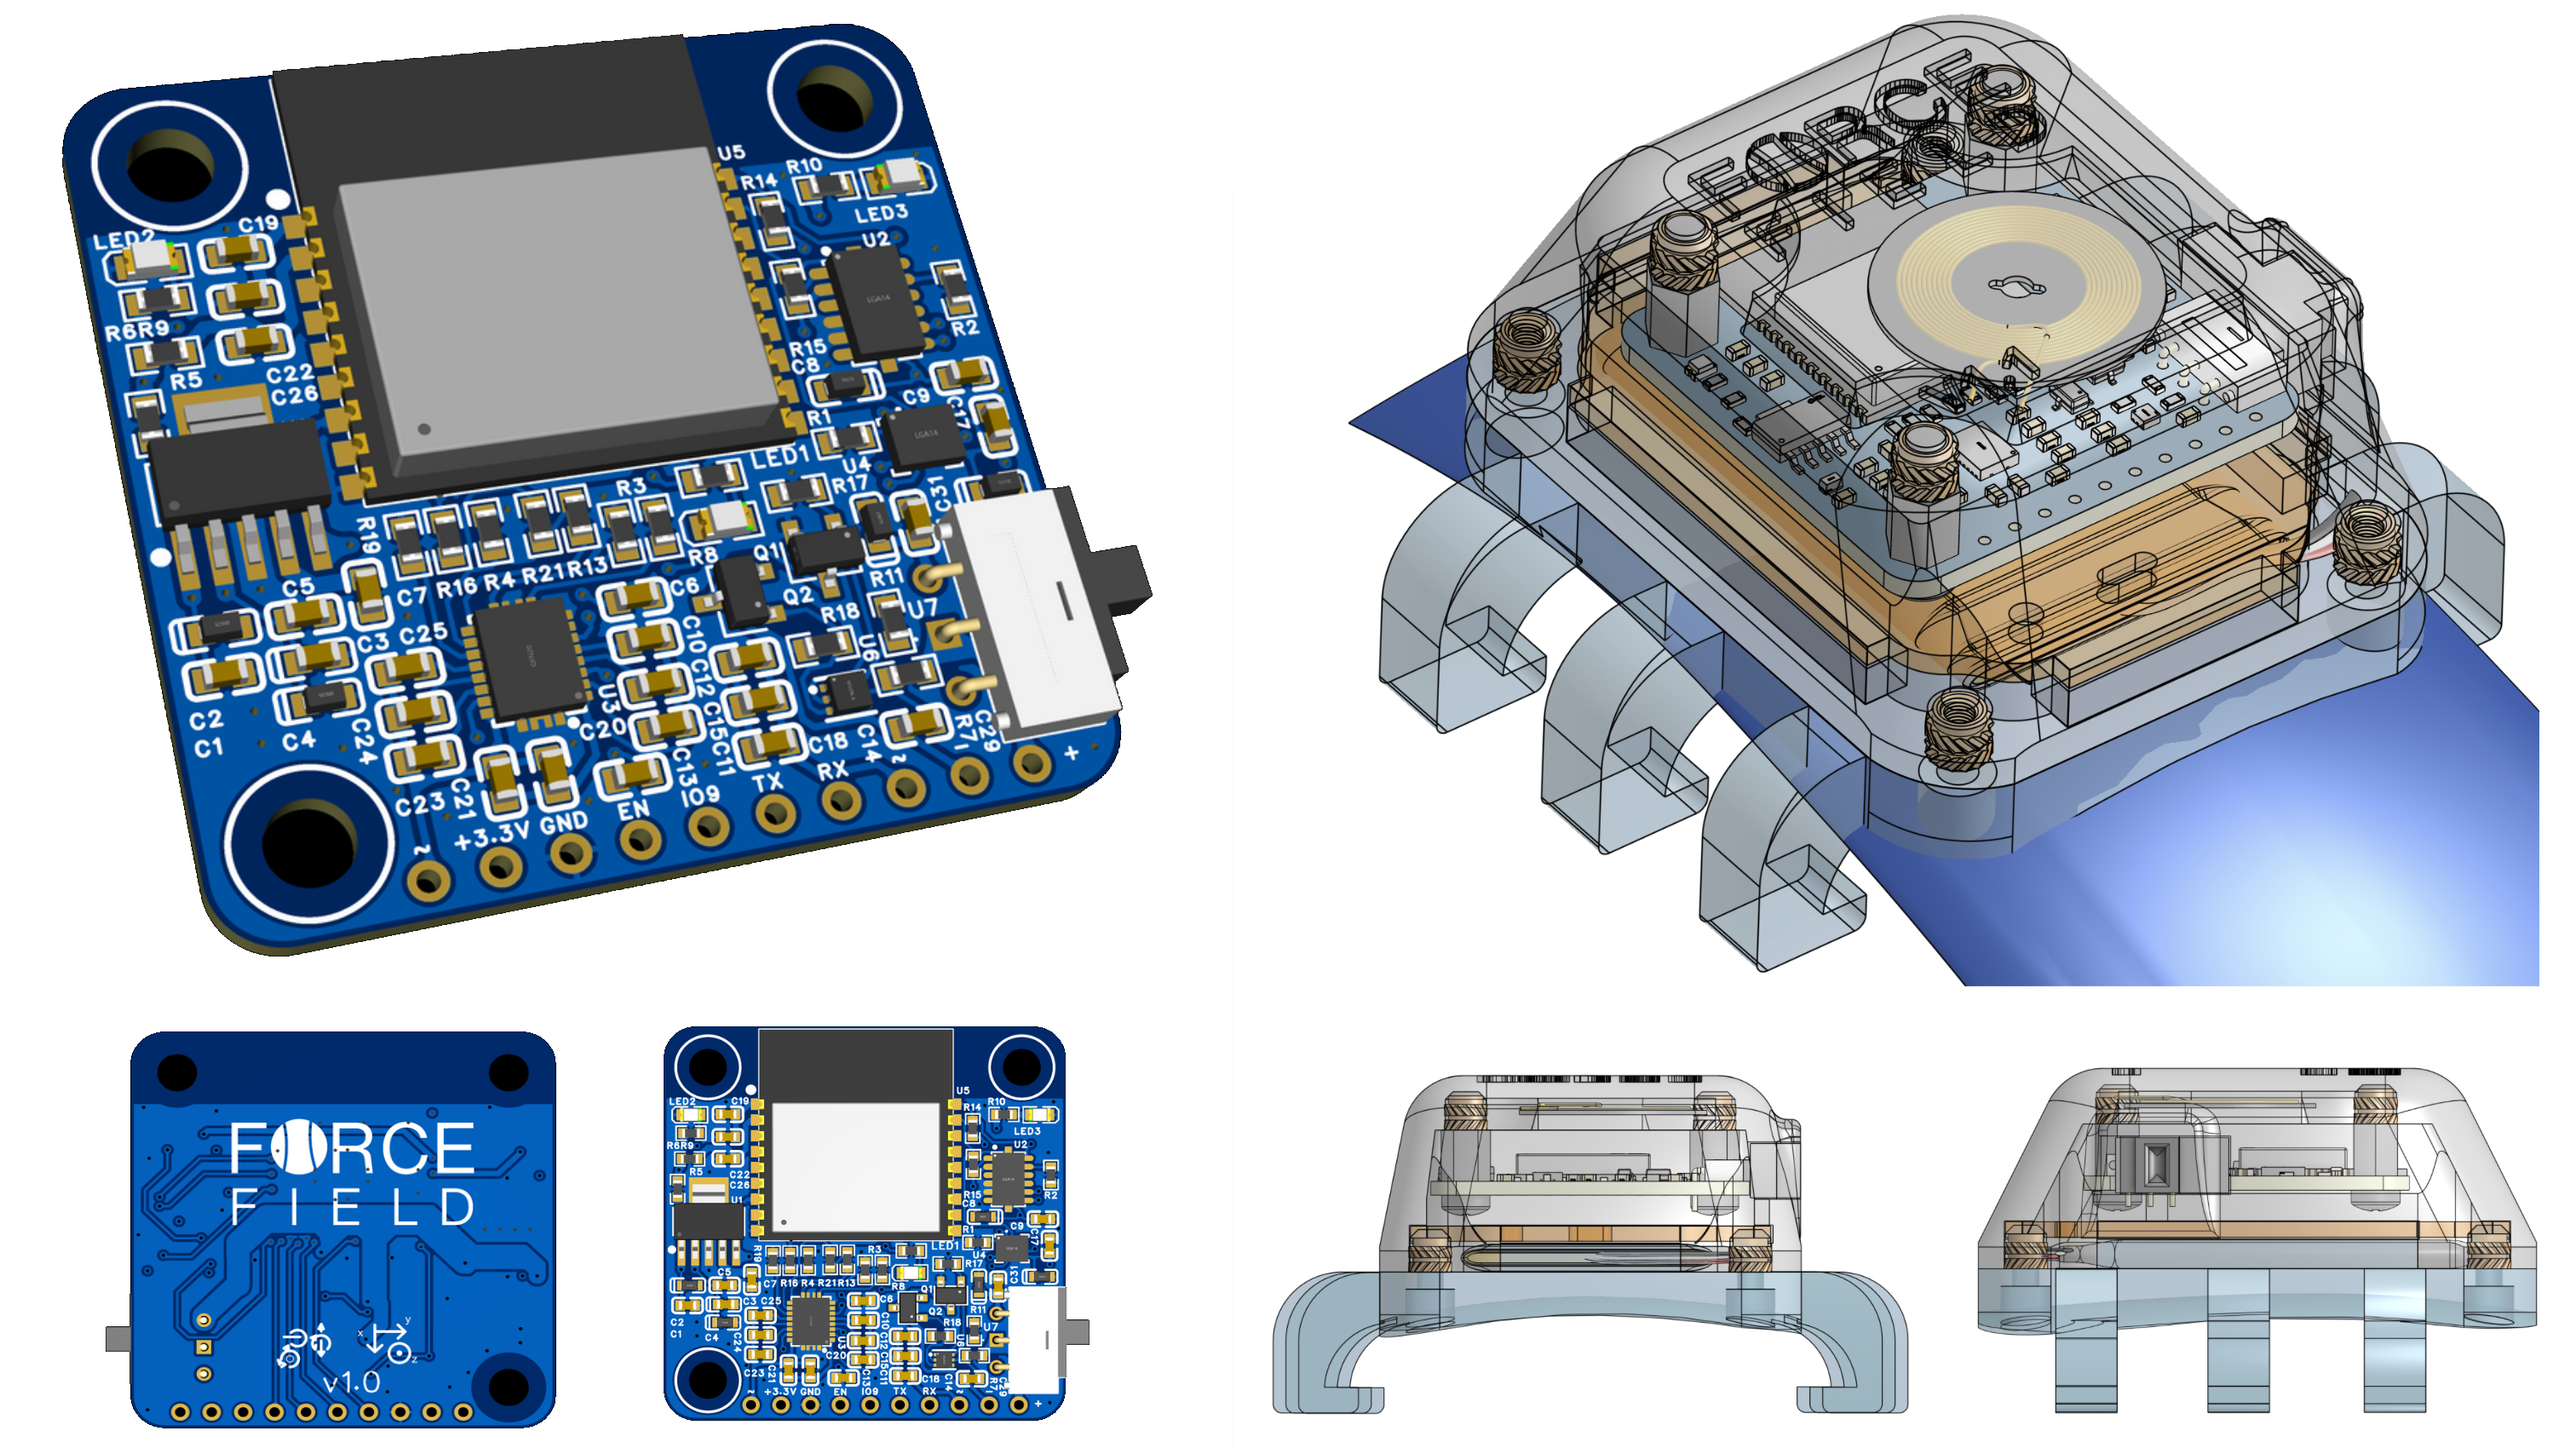
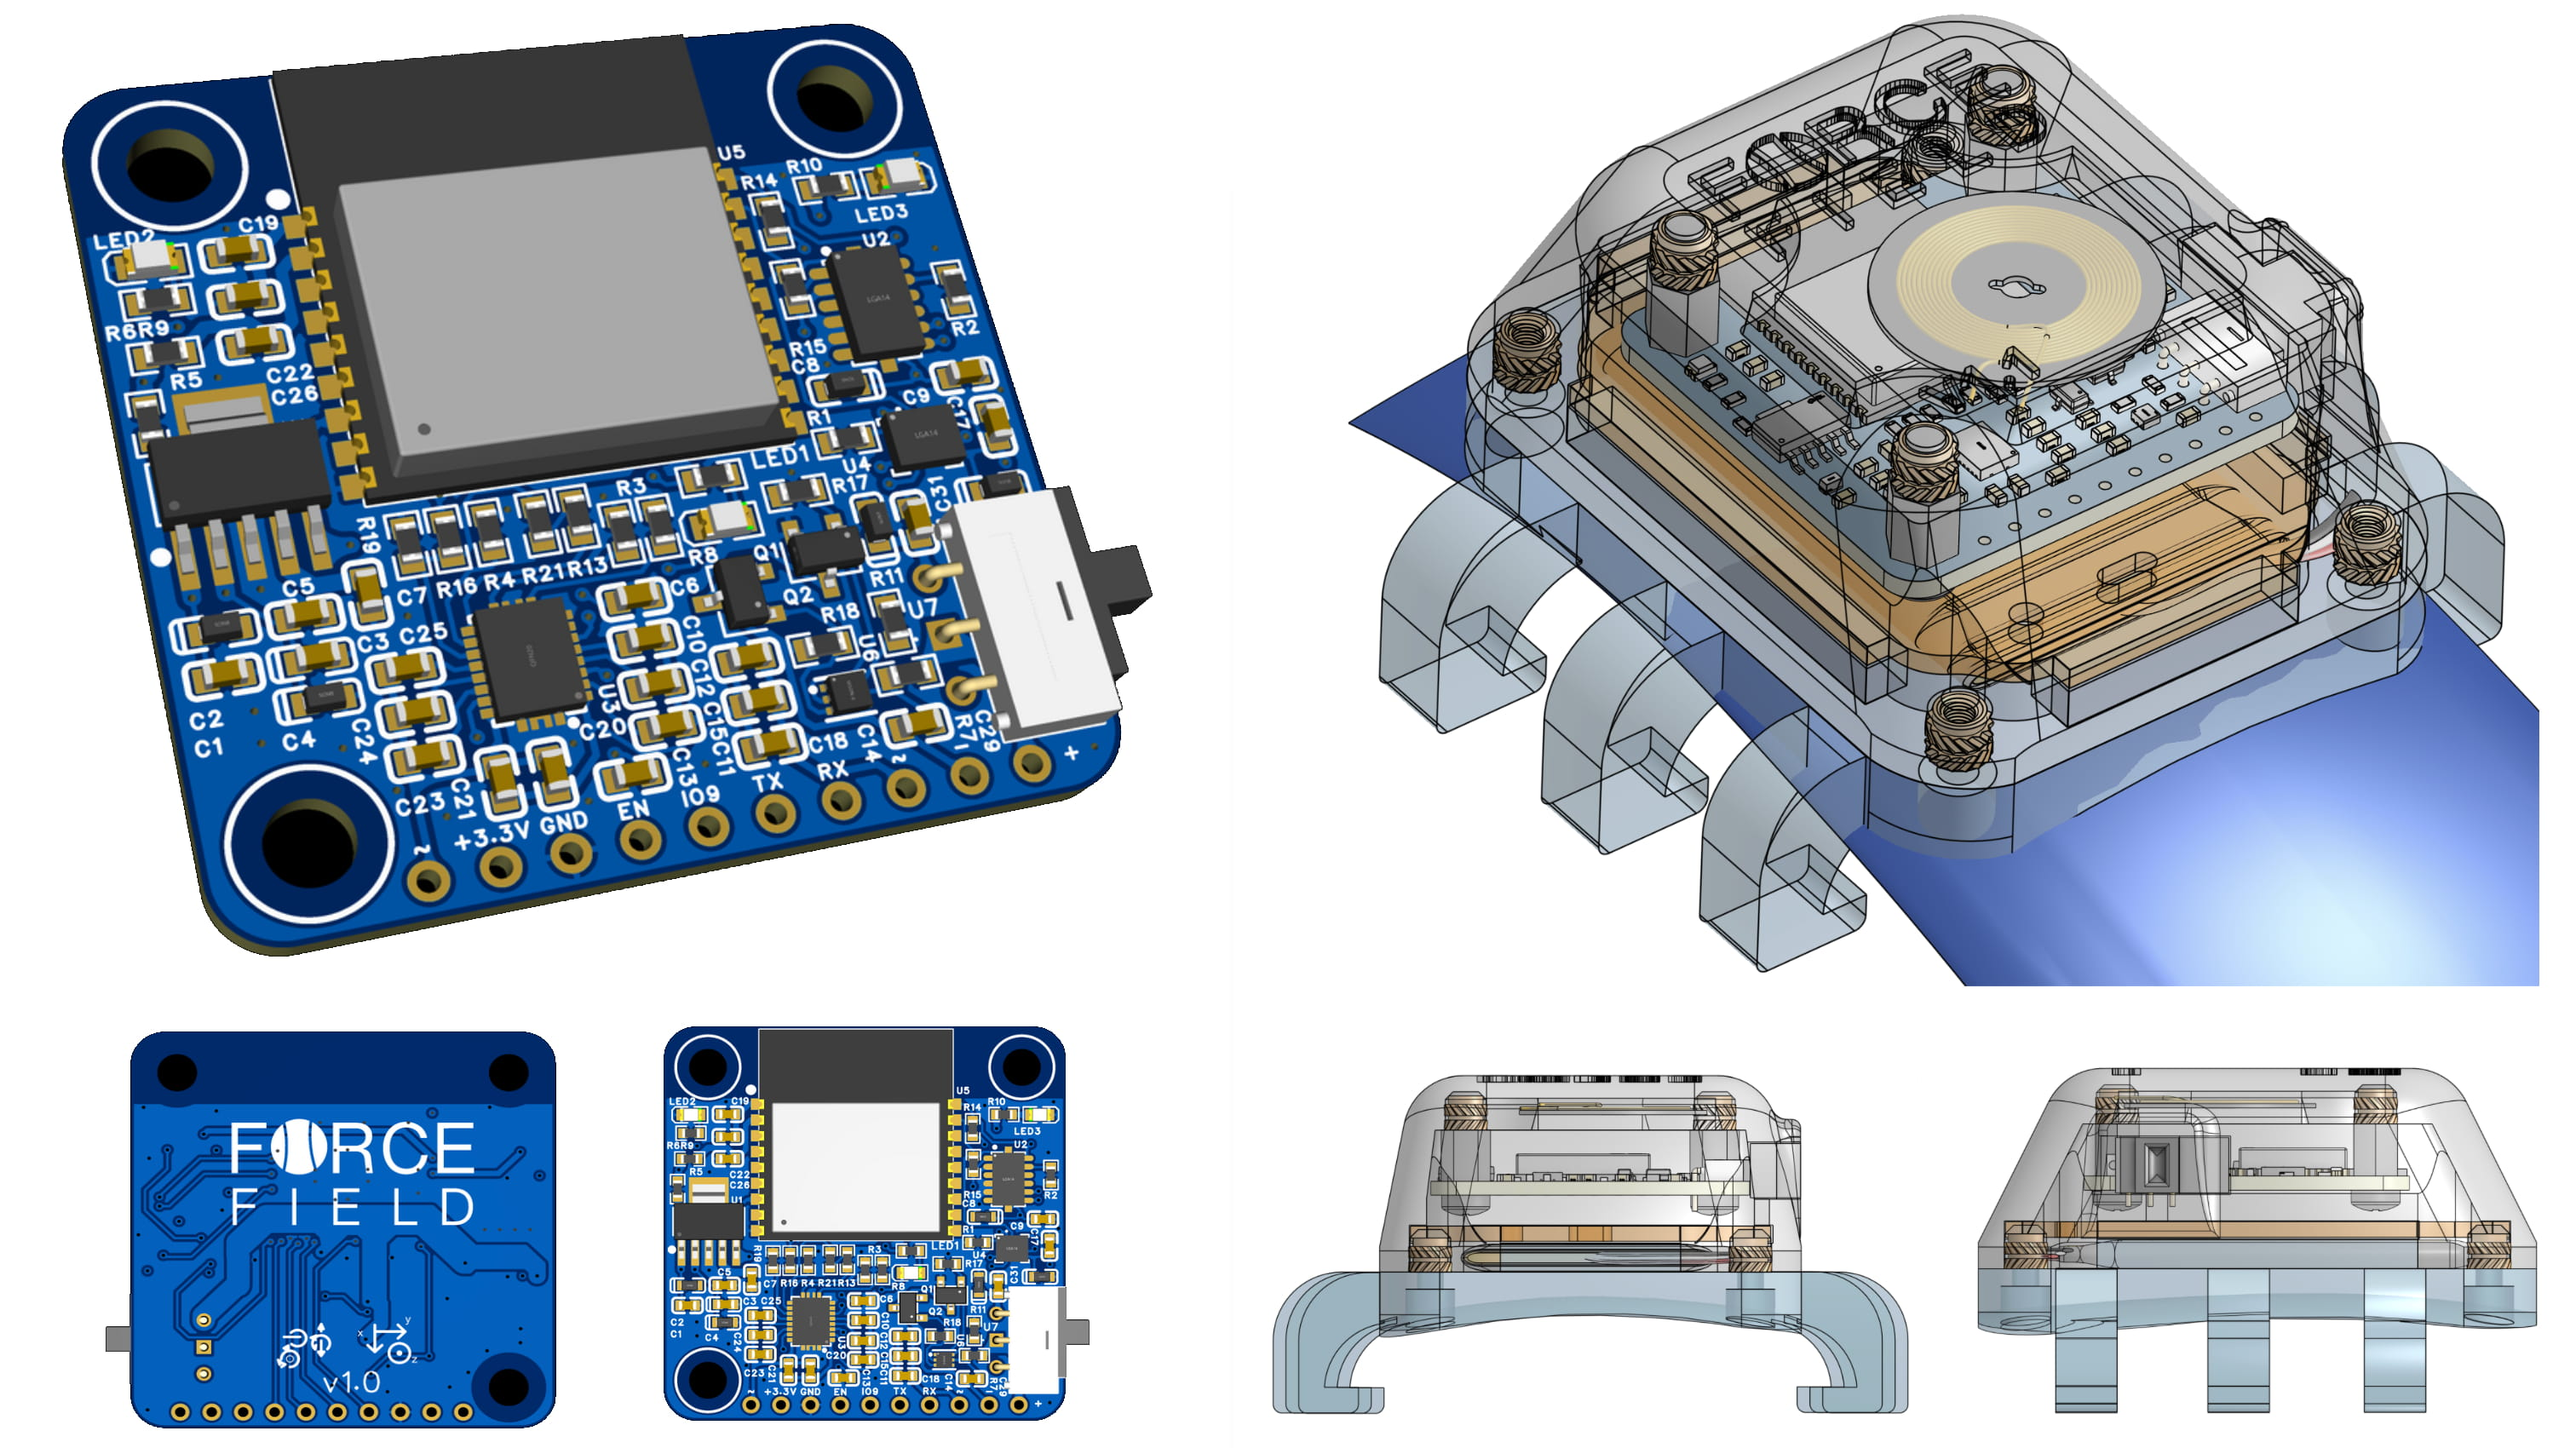
images

Changed region(s): [[0.2487, 0.7482, 0.4041, 0.9665]]

diff --git a/index.html b/index.html
@@ -105,7 +105,7 @@
 
     <div class="grid-item" data-status="completed">
         <a href="projects/bike-dynamo.html">
-            <img src="images/charger.png" alt="Charger">
+            <img src="images/charger.jpg" alt="Charger">
             <h3>Bike Dynamo Rear Light & USB Charger</h3>
         </a>
     </div>
